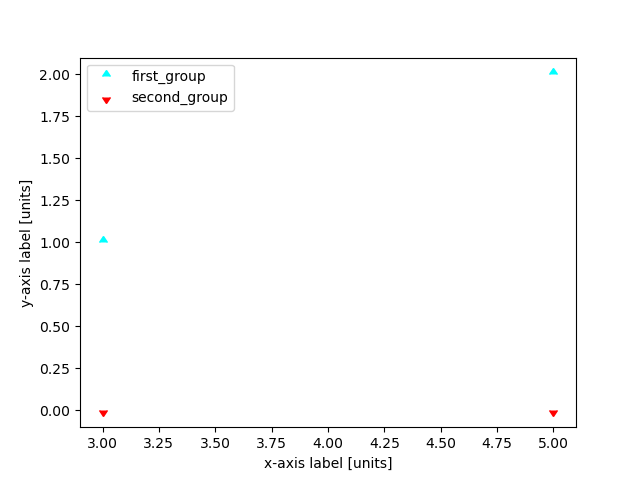
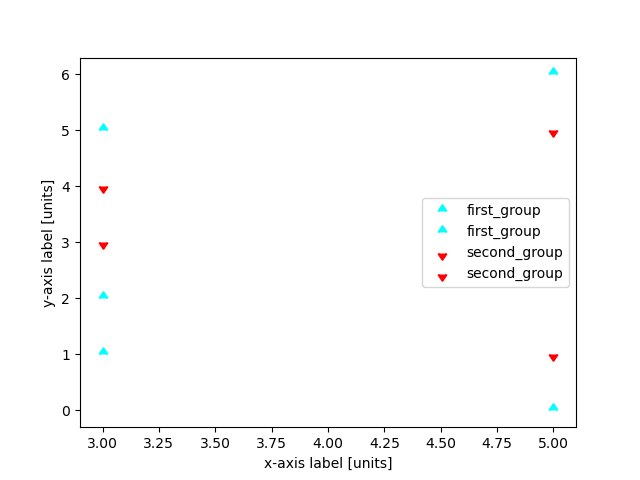
Allowed for different groups on single x-coord.

diff --git a/src/simplt/dotted_plot/dotted_plot.py b/src/simplt/dotted_plot/dotted_plot.py
@@ -6,7 +6,7 @@ example_create_multi_line_plot()     example_create_single_line_plot()
 at the bottom of this file.
 """
 from pprint import pprint
-from typing import Any, List, Optional
+from typing import Any, Dict, List, Optional
 
 import colorsys
 import matplotlib
@@ -25,23 +25,31 @@ def example_create_multi_group_dotted_plot(
 
     Copy paste it in your own code and modify the values accordingly.
     """
+    single_x_series = [3., 5.]
+    multiple_y_series:Dict[int,Dict[float,List[float]]] = {}
 
-    multiple_y_series = np.zeros((2, 2), dtype=int)
     # actually fill with data
-    multiple_y_series[0] = [1, 2]
+    multiple_y_series[0]={}
+    multiple_y_series[0][single_x_series[0]] = [1., 2., 5.]
+    multiple_y_series[0][single_x_series[1]] = [0., 6.]
+
+    multiple_y_series[1]={}
+    multiple_y_series[1][single_x_series[0]] = [3., 4.]
+    multiple_y_series[1][single_x_series[1]] = [1., 5.]
+
+    
     groupLabels = [
         "first_group",
         "second_group",
     ]  # add a label for each dataseries
-    single_x_series = [3, 5]
-
+    
+    print(multiple_y_series)
     plot_multiple_dotted_groups(
         extensions=extensions,
         filename=filename,
         label=groupLabels,
         legendPosition=0,
         output_dir=output_dir,
-        x=single_x_series,
         x_axis_label="x-axis label [units]",
         y_axis_label="y-axis label [units]",
         y_series=multiple_y_series,
@@ -56,10 +64,9 @@ def plot_multiple_dotted_groups(
     label: List,
     legendPosition: int,
     output_dir: str,
-    x: List,
     x_axis_label: str,
     y_axis_label: str,
-    y_series: np.ndarray,
+    y_series: Dict[int,Dict[float,List[float]]],
 ) -> None:
     """
 
@@ -82,17 +89,25 @@ def plot_multiple_dotted_groups(
     hsv_values = [(float(x)/len(y_series), 1, 1) for x in range(1,len(y_series)+1)]
     rgb_colour_sets = list(map(lambda x: colorsys.hsv_to_rgb(*x), hsv_values))
 
+
+
     # Geneterate lines.
-    for i in range(0, len(y_series)):
-        ax.plot(
-            x,
-            y_series[i, :],
-            'r.', # Make it dots instead of lines.
-            label=label[i],
-            color=rgb_colour_sets[i],
-            marker=i+10,
-            
-        )
+    for i, group in enumerate(list(y_series.keys())):
+    #for i, x_val in enumerate(list(y_series.keys())):
+        for x_val,y_coords_of_x in y_series[group].items():
+            print(f'{i},x_val={x_val}')
+            print(f'{i},y_coords_of_x={y_coords_of_x}')
+            x_vals=[x_val]*len(y_coords_of_x)
+            y_vals=y_coords_of_x
+            ax.scatter(
+                x=x_vals,
+                y=y_vals,
+                #'r.', # Make it dots instead of lines.
+                label=label[i],
+                color=rgb_colour_sets[i],
+                marker=i+10,
+
+            )
 
     # configure plot layout
     plt.legend(loc=legendPosition)

diff --git a/src/simplt/__init__.py b/src/simplt/__init__.py
@@ -1,3 +1,3 @@
 """Contains the project versioning."""
-__version__ = "0.0.2"
+__version__ = "0.0.3"
 __version_info__ = tuple(int(i) for i in __version__.split(".") if i.isdigit())

diff --git a/README.md b/README.md
@@ -48,7 +48,7 @@ create_box_plot(
 
 And creates:
 
-<img src="output/example_box.png" width="640" height="480" />
+<img src="https://github.com/a-t-0/simplt/blob/main/output/example_box.png" width="640" height="480" />
 
 ## Example Multi-Line Plot
 ```py
@@ -89,9 +89,9 @@ plot_multiple_lines(
 
 And creates a (colorblind-friendly) lineplot:
 
-<img src="output/example_line.png" width="640" height="480" />
+<img src="https://github.com/a-t-0/simplt/blob/main/output/example_line.png" width="640" height="480" />
 
-## Example Multi-Line Plot
+## Example Multi-Group Scatter Plot
 ```py
 python -m simplt --dot-plot
 ```
@@ -100,28 +100,32 @@ Which is the same as running:
 from simplt.dotted_plot.dotted_plot import plot_multiple_dotted_groups
 import numpy as np
 
-extensions=[
-    ".png",
-],
-filename="example_dots",
-output_dir="output",
+single_x_series = [3., 5.]
+multiple_y_series:Dict[int,Dict[float,List[float]]] = {}
 
-multiple_y_series = np.zeros((2, 2), dtype=int)
 # actually fill with data
-multiple_y_series[0] = [1, 2]
+multiple_y_series[0]={}
+multiple_y_series[0][single_x_series[0]] = [1., 2., 5.]
+multiple_y_series[0][single_x_series[1]] = [0., 6.]
+
+multiple_y_series[1]={}
+multiple_y_series[1][single_x_series[0]] = [3., 4.]
+multiple_y_series[1][single_x_series[1]] = [1., 5.]
+
+
+
 groupLabels = [
     "first_group",
     "second_group",
 ]  # add a label for each dataseries
-single_x_series = [3, 5]
 
+print(multiple_y_series)
 plot_multiple_dotted_groups(
     extensions=extensions,
     filename=filename,
     label=groupLabels,
     legendPosition=0,
     output_dir=output_dir,
-    x=single_x_series,
     x_axis_label="x-axis label [units]",
     y_axis_label="y-axis label [units]",
     y_series=multiple_y_series,
@@ -130,7 +134,7 @@ plot_multiple_dotted_groups(
 
 And creates a (colorblind-friendly) dotplot:
 
-<img src="output/example_dots.png" width="640" height="480" />
+<img src="https://github.com/a-t-0/simplt/blob/main/output/example_dots.png" width="640" height="480" />
 
 
 ## For Developers
